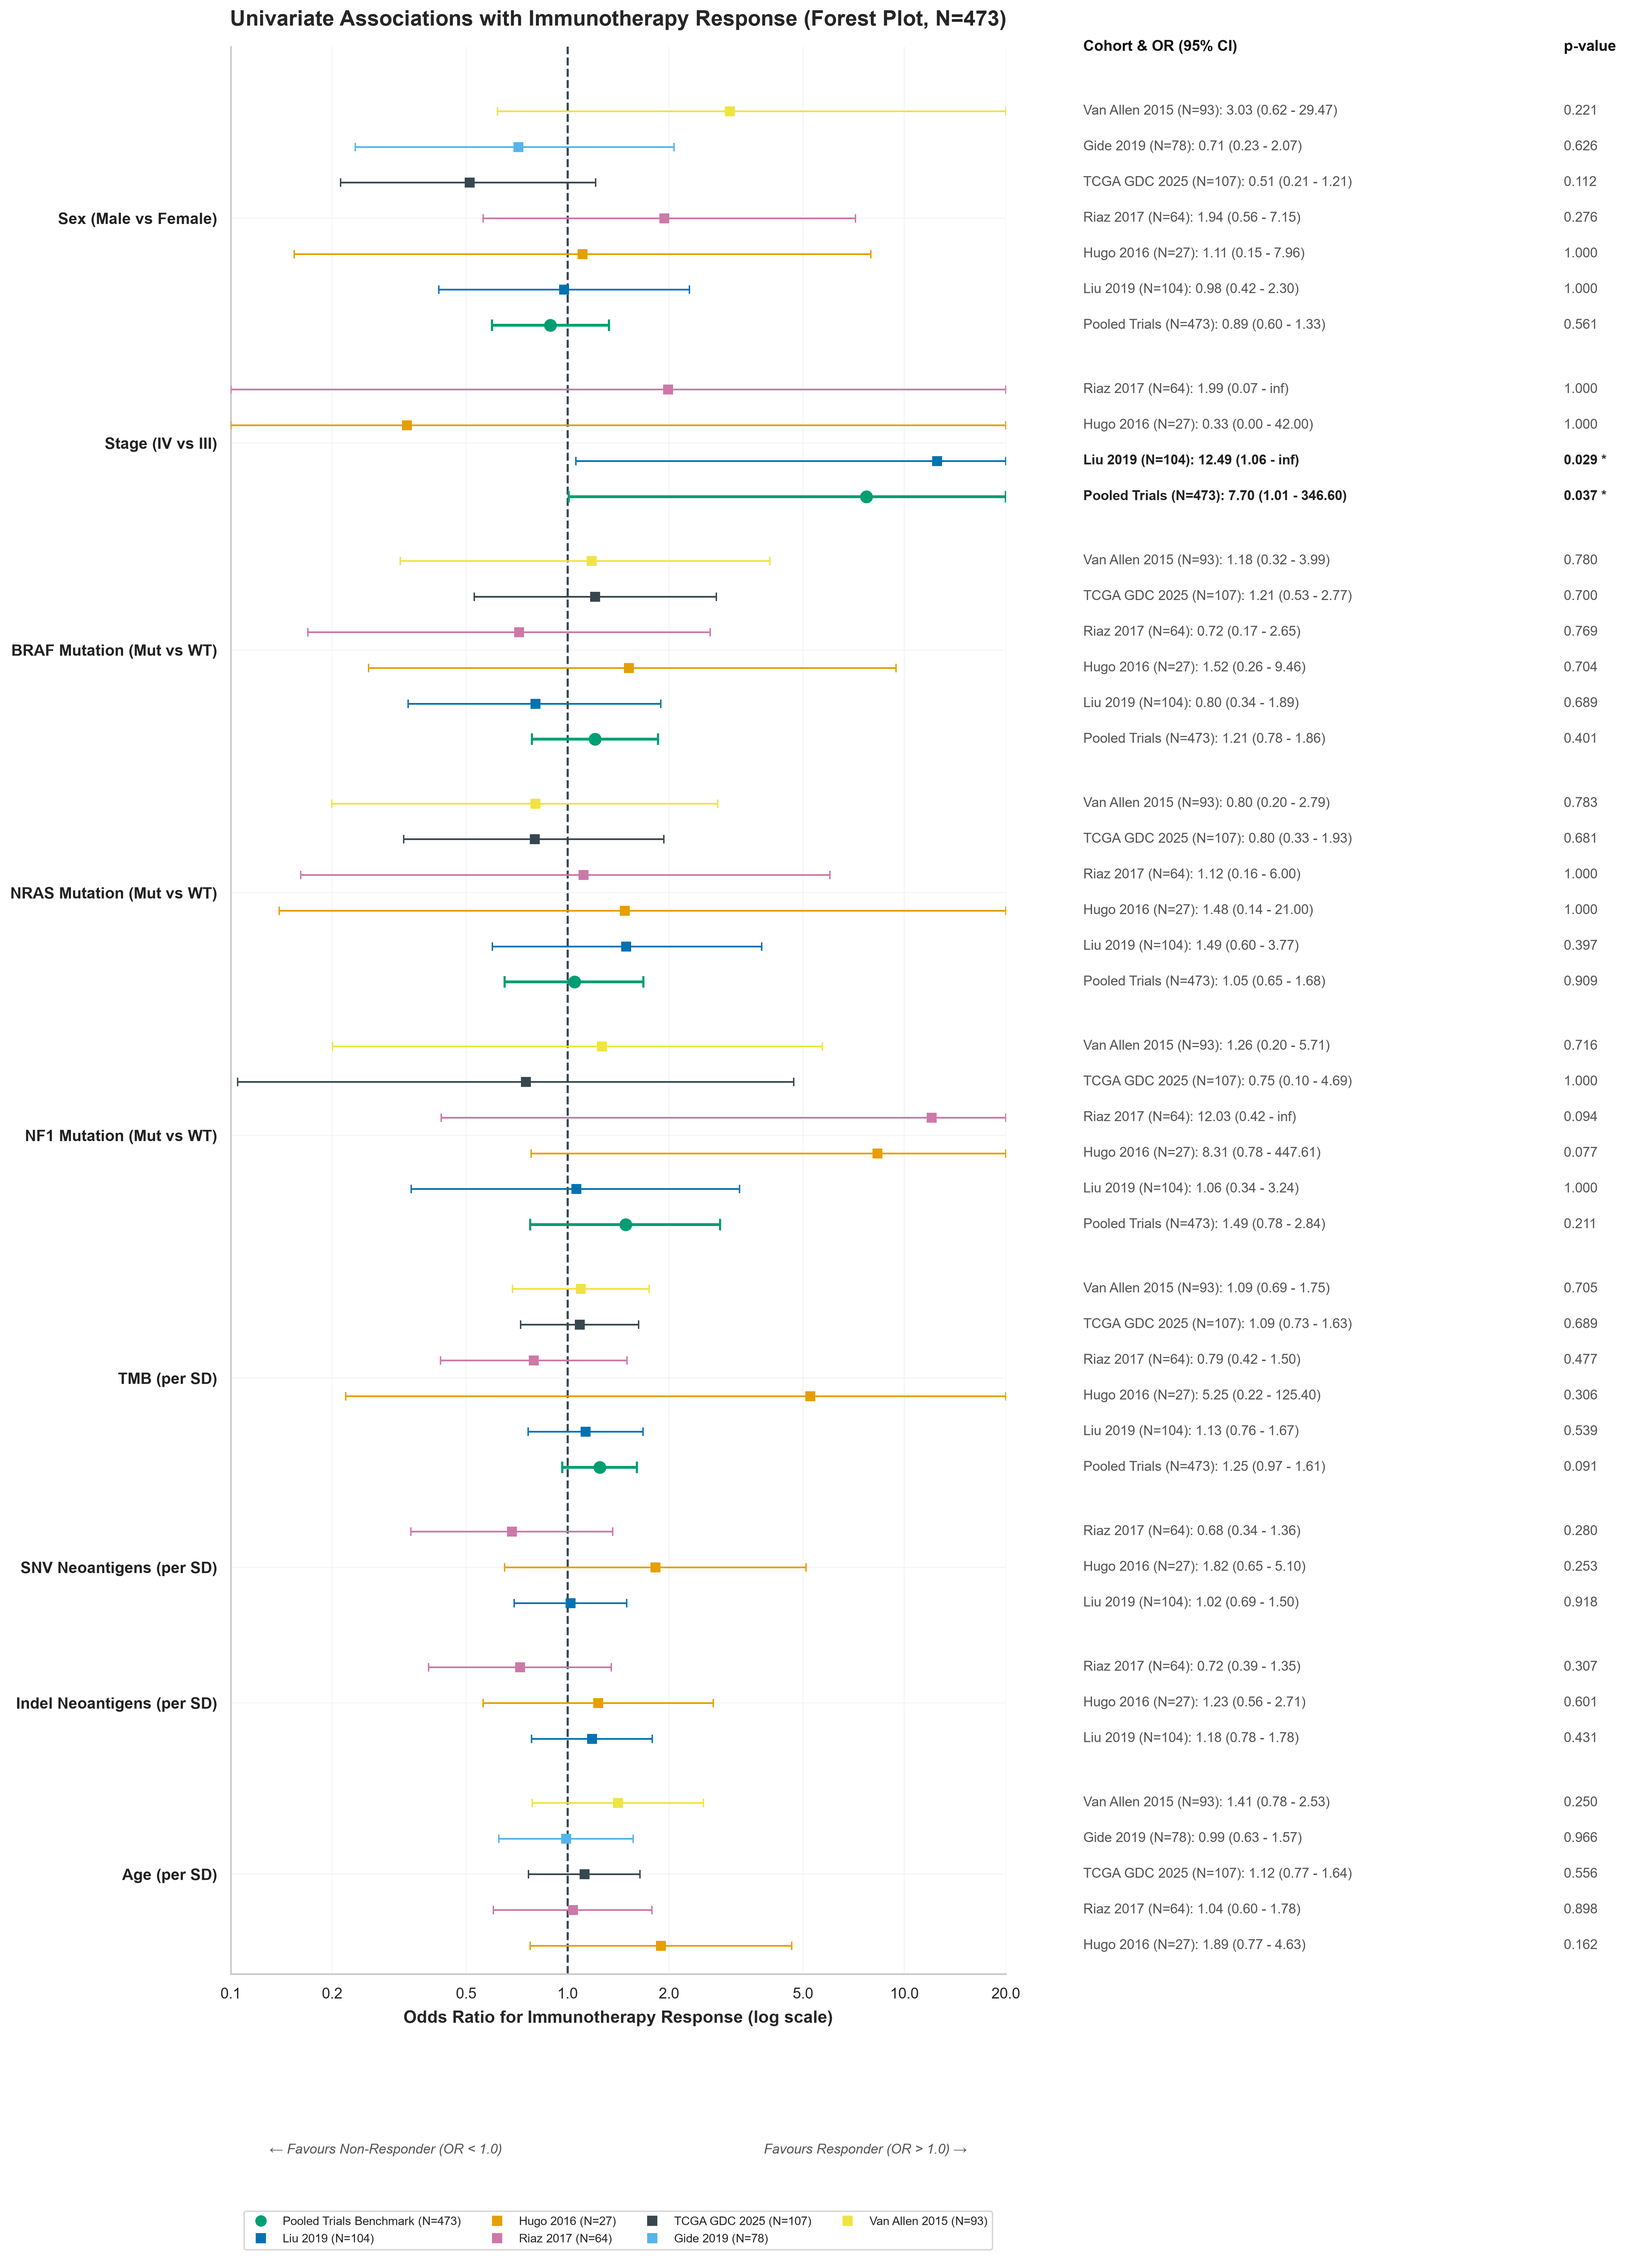
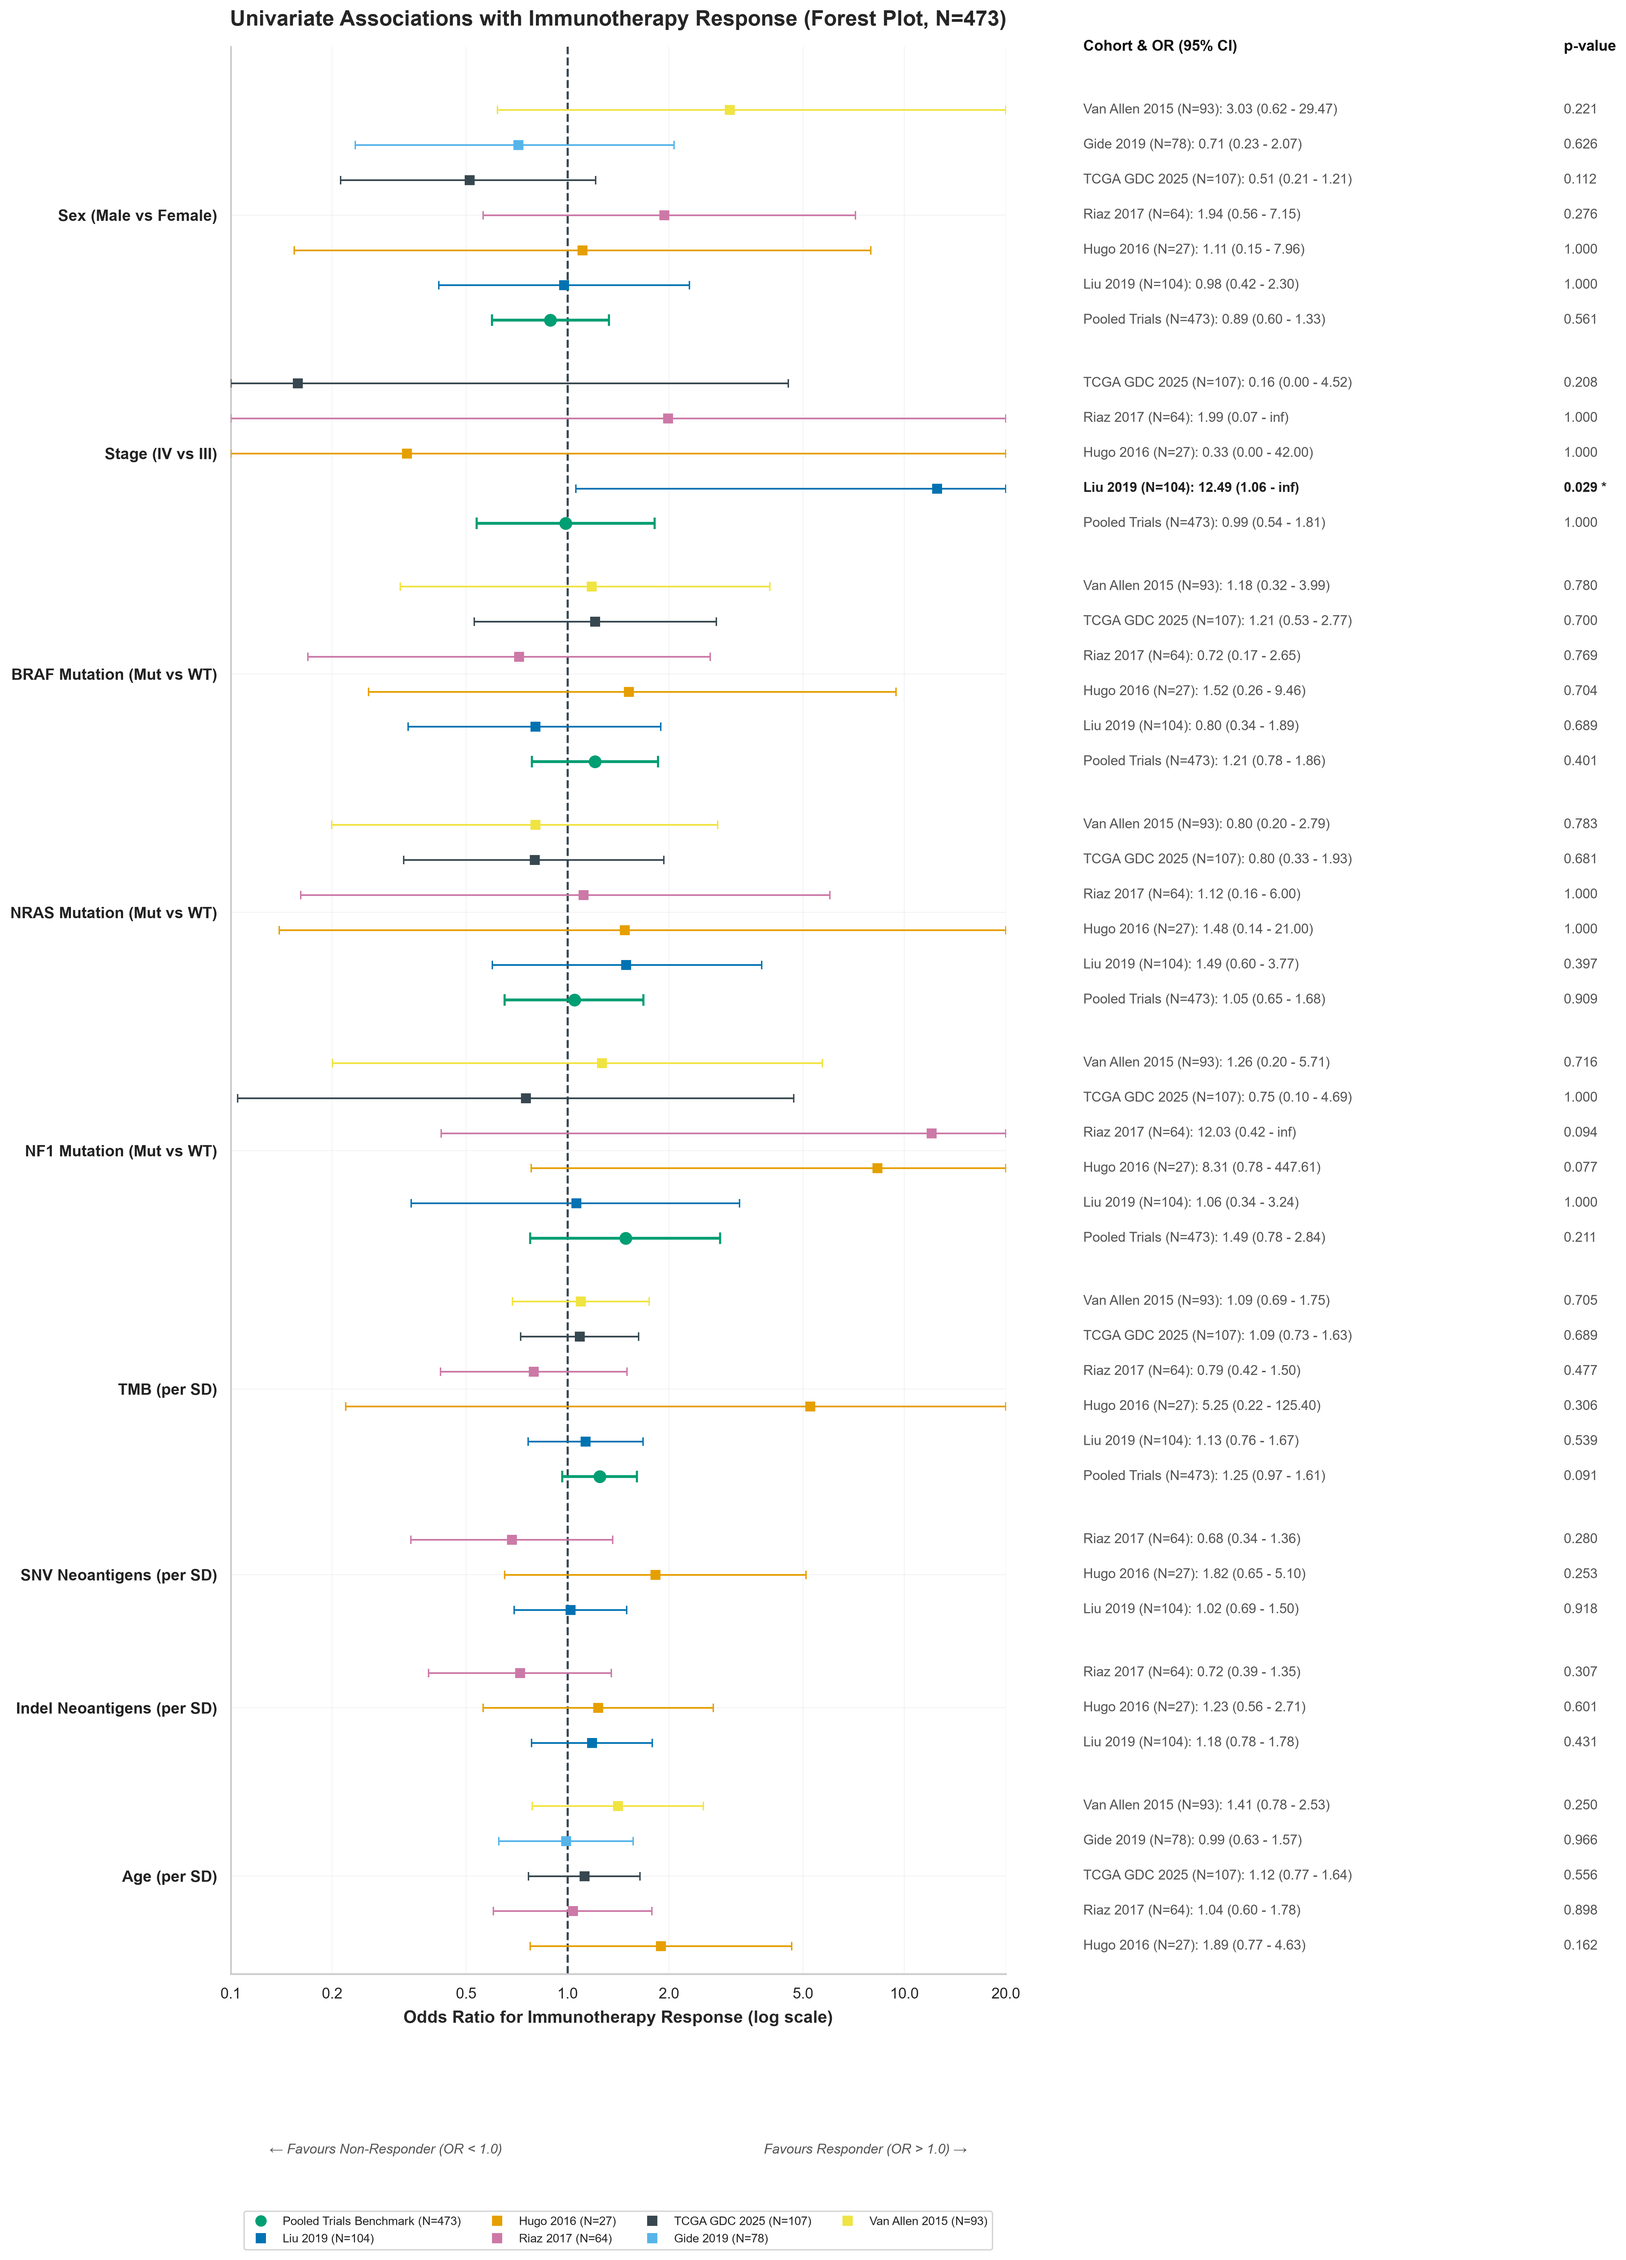
fix(clinical): resolve PATH_STAGE and TUMOR_STAGE in run_univariate_associations.py
- Expand stage column detection in _normalise_cohort_df to map PATH_STAGE (TCGA GDC)
  and TUMOR_STAGE (Van Allen) to CLINICAL_STAGE for Stage IV vs III odds ratio testing
- Regenerated forest plot and stats table with TCGA GDC 2025 Stage IV vs III included

diff --git a/q1-response-predictor/scripts/pillar-2-clinical-subtyping/run_univariate_associations.py b/q1-response-predictor/scripts/pillar-2-clinical-subtyping/run_univariate_associations.py
@@ -286,10 +286,11 @@ def _normalise_cohort_df(df: pd.DataFrame) -> pd.DataFrame:
         df_clean["SEX"] = df_clean["SEX"].map(
             {"Male": "Male", "Female": "Female", "M": "Male", "F": "Female"}
         )
-    if "CLINICAL_STAGE" in df_clean.columns:
-        df_clean["CLINICAL_STAGE"] = df_clean["CLINICAL_STAGE"].apply(
-            lambda x: "IV" if str(x).startswith("IV") else (
-                "III" if str(x).startswith("III") else np.nan
+    stage_col = next((c for c in ["CLINICAL_STAGE", "PATH_STAGE", "TUMOR_STAGE"] if c in df_clean.columns), None)
+    if stage_col:
+        df_clean["CLINICAL_STAGE"] = df_clean[stage_col].apply(
+            lambda x: "IV" if "IV" in str(x).upper() else (
+                "III" if "III" in str(x).upper() else np.nan
             )
         )
     return df_clean
